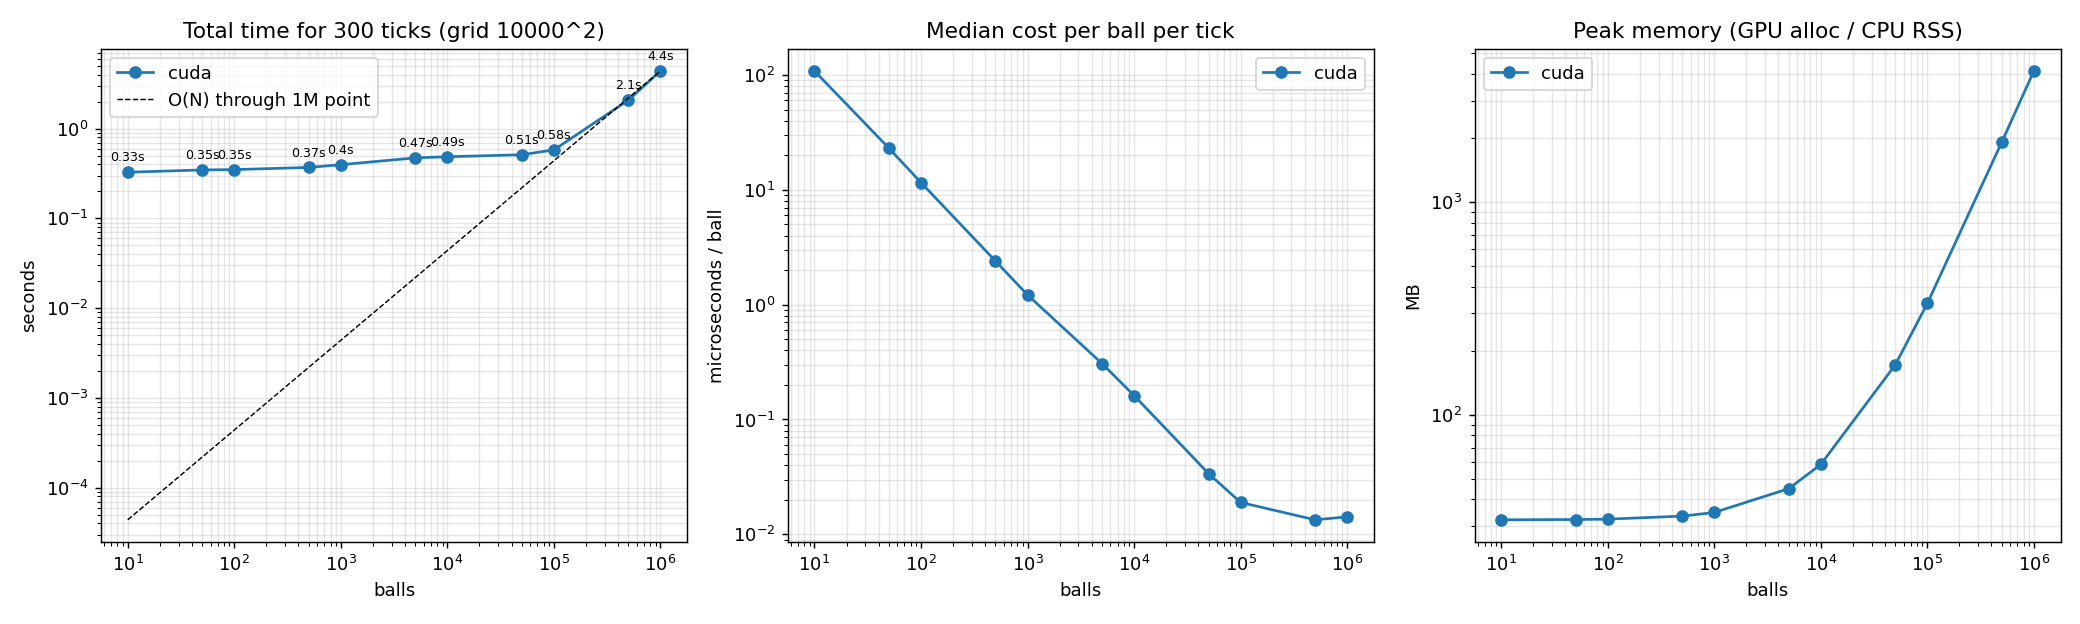
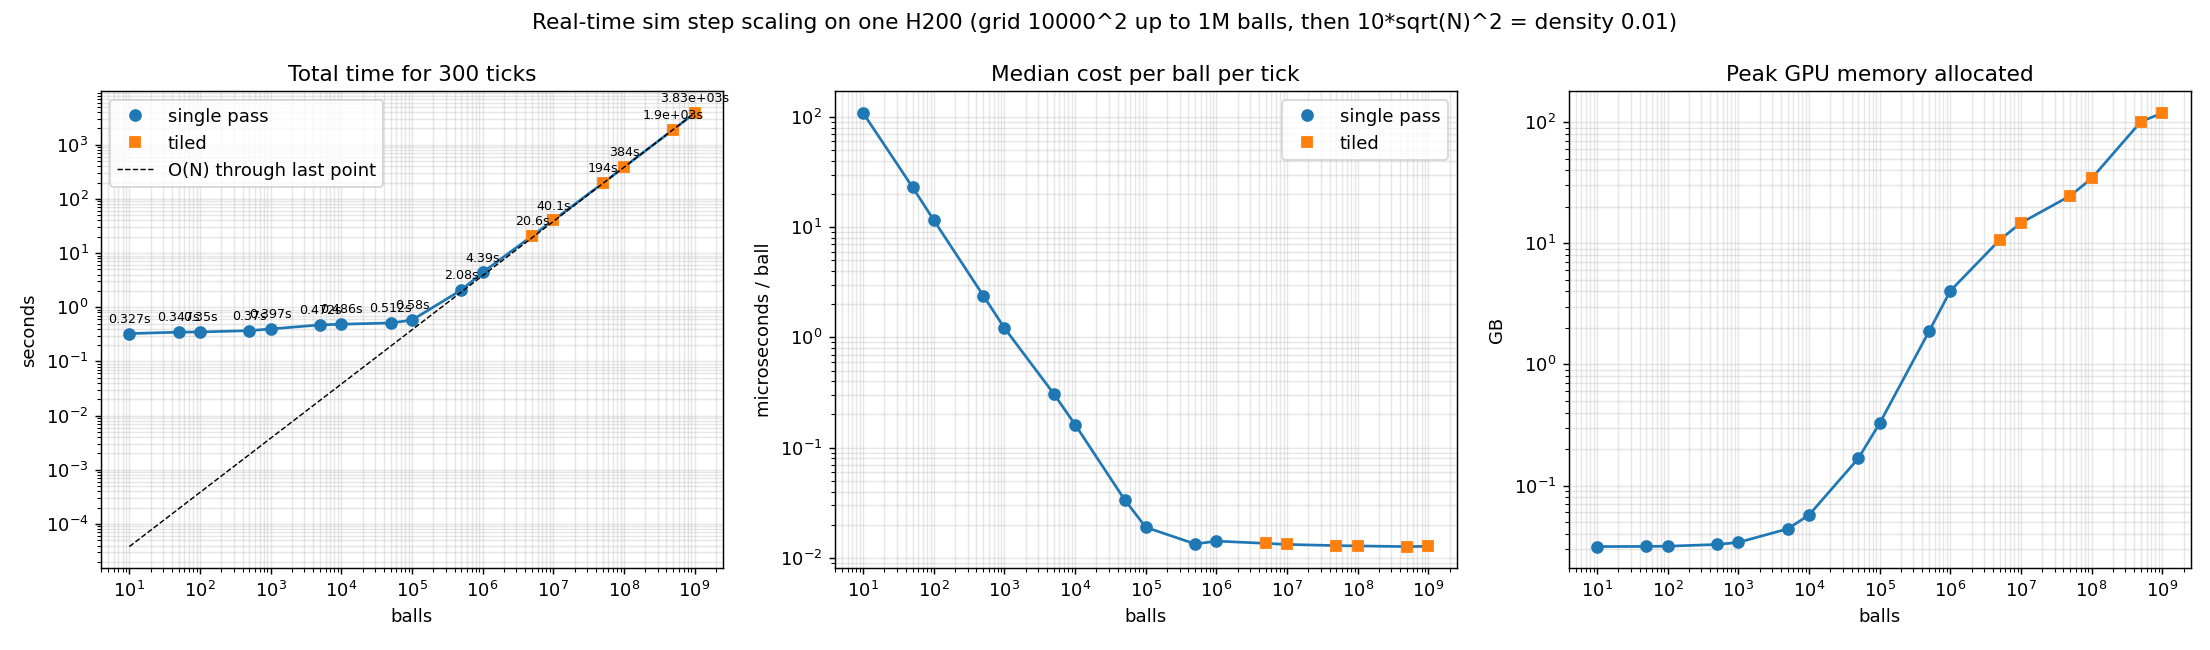
bench: 1B balls, 3825 s / 300 ticks (12.75 s/tick, 121 GB peak, fp16 hidden)
Claude-Session: https://claude.ai/code/session_01TmEvPcNyvXF9LTR5HR8rpj

diff --git a/docs/paper/analysis-process.md b/docs/paper/analysis-process.md
@@ -50,9 +50,9 @@ impulse + fixed symplectic integrator, GRU residual only. Not yet implemented.
 - Beyond 10M the run is tiled (strip tiling with halos): exact per-step vs global
   (~3e-5) but uses local softmax max; full rollouts diverge chaotically in dense
   piles (expected, not a benchmark artifact).
-- 1B run (job 2917, ~12.4-12.9 s/tick so far): hidden state fp16 because fp32 = 144 GB
+- 1B run (job 2917): 3825 s total, 12.75 s/tick median, 121.4 GB peak, 250 strips, 12.7 ns/ball/tick. Hidden state fp16 because fp32 = 144 GB
   > 141 GB GPU. CAVEAT: fp16 hidden differs from the fp32 used in all smaller runs;
-  report it. Fill final 1B total/ms per tick/peak mem here when job finishes.
+  report it.
 - Comparison to physics sims: same O(N) class; ~13 ns/ball/tick is CPU-sim range,
   est. 3-10x slower than tuned analytic GPU codes (recollection, NOT measured).
   A fair baseline needs an analytic GPU sim at equal N on same hardware (not run).
